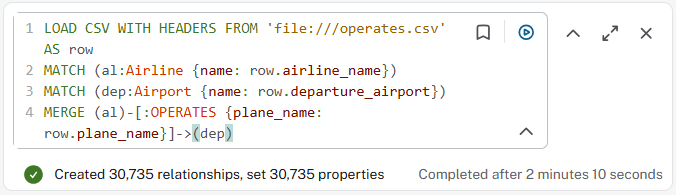
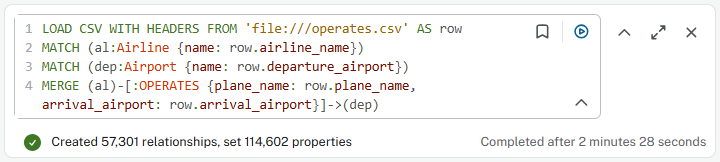
Added query f. Revised OPERATES relationship to include arrival airports to help with query f

diff --git a/report.md b/report.md
@@ -162,7 +162,7 @@ Below are the Cypher commands to load the CSVs for the nodes and relationships:
 
 ###### `OPERATES` Relationship
 
-![](assets/20260503_225123_image.png)
+![](assets/create_operates.png)
 
 The `LOAD CSV WITH HEADERS` was used to load the CSVs, which reads each row of a CSV file and maps the values to node properties or relationship attributes.
 
@@ -251,6 +251,12 @@ Finally, we set the columns, and used `COUNT(DISTINCT plane)` to count unique va
 This query uses a varying-length path traversal to find all possible routes between Beijing Capital International Airport and Perth International Airport. `[:ROUTE*1..3]` instructs neo4j to follow up to 3 `ROUTE` relationships to reach the destination. Each unique sequence of airports visited is treated as a distinct route. The query returned **650 distinct routes**.
 
 ## 5.6. Query 6
+
+> Find the top 5 pairs of airlines that compete head-to-head on the greatest number of shared routes. Two airlines are considered competitors if they both operate between the same two airports, regardless of direction. Return the airline pair names and the number of routes they share.
+
+![](assets/query6.png)
+
+This query identifies the top 5 pairs of competing airlines based on the number of shared routes. SAM Columbia and Zantom International Airlines has the lead, with 793 shared routes, significantly more than the second through fifth pairs. Sham Wing Airlines and Sheremetyevo-Cargo both appear twice in the top 5, indicating that they are highly competitive carriers operating across many shared routes with multiple airlines.
 
 # 6. Self-Designed Queries
 
